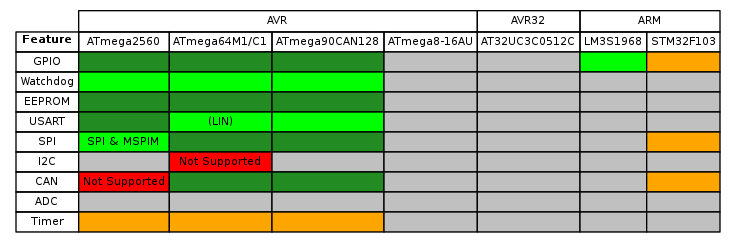
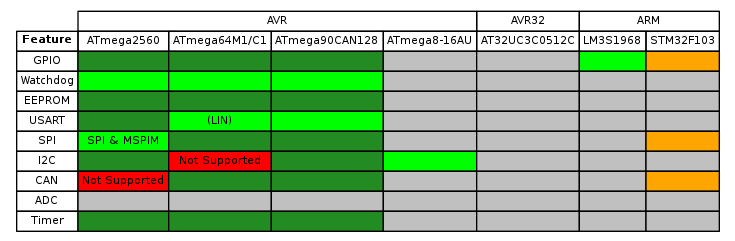
Zim documentation for Timer/Counter updated, and documentation for I2C updated
Former-commit-id: 0889df098970f4cbc46fde832a8b2fbd8e2199df [formerly 275636a69956b4c7375303f9f7cbf9e85ff44f60] [formerly 6b24c741fa04366bb4fef8391502f135d28f1655 [formerly f9d620574cc24b522d1b99270419e773e5d05f99]]
Former-commit-id: 6f29631aa81b05abd2eb8e6ab7d27487f033a969 [formerly d8493dcb835f46c66c7da5e3bb82830fe86dcd26]
Former-commit-id: 24ed3466b5a4971179a510bfa692396f4ae9bbad

Changed region(s): [[0.0, 0.029, 0.9878, 0.9876]]

diff --git a/res/common/hal/i2c.hpp b/res/common/hal/i2c.hpp
@@ -70,11 +70,14 @@
 // FORWARD DEFINE PRIVATE PROTOTYPES.
 
 #ifdef __AVR_ATmega2560__
-#define TWI_BUFFER_SIZE 20
+# define TWI_BUFFER_SIZE 20
+# define I2C_SR   _SFR_MEM8(0xB9)
 #elif defined (__AVR_AT90CAN128__)
-#define TWI_BUFFER_SIZE 20
+# define TWI_BUFFER_SIZE 20
+# define I2C_SR   _SFR_MEM8(0xB9)
 #elif defined (__AVR_ATmega8__)
-#define TWI_BUFFER_SIZE 20
+# define TWI_BUFFER_SIZE 20
+# define I2C_SR   _SFR_IO8(0x01)
 #endif
 
 class I2C_imp;
@@ -155,25 +158,6 @@ enum I2C_status_code
 	ST_DATA_ACK_LAST_BYTE 			= 0xC8, 	//  Last data byte in TWDR has been transmitted (TWEA = “0”); ACK has been received
 
 };
-
-struct TWI_bus
-{
-  volatile uint8_t TWI_MT_buf[TWI_BUFFER_SIZE];       // TWI master transmitter data buffer.
-  volatile uint8_t TWI_MR_sla_adr;                     // TWI master receiver requires a variable to hold target address.
-  volatile uint8_t* TWI_MR_data_ptr;                   // TWI master receiver saves the data straight to the user data array.
-  volatile uint8_t TWI_ST_buf[TWI_BUFFER_SIZE];        // TWI slave transmitter buffer.
-  volatile uint8_t TWI_SR_buf[TWI_BUFFER_SIZE];        // TWI slave receiver buffer.
-
-  volatile bool TWI_gen_call;
-  volatile bool TWI_data_in_ST_buf;
-  volatile bool TWI_data_in_SR_buf;
-
-  uint8_t own_adr;
-  I2C_mode TWI_current_mode;
-  volatile uint8_t TWI_msg_size;
-  volatile uint8_t TWI_status_reg;
-};
-
 
 /**
  * @class

diff --git a/res/avr/hal/i2c.cpp b/res/avr/hal/i2c.cpp
@@ -46,6 +46,24 @@
 
 // DEFINE PRIVATE TYPES AND STRUCTS.
 
+struct TWI_bus
+{
+  volatile uint8_t TWI_MT_buf[TWI_BUFFER_SIZE];       // TWI master transmitter data buffer.
+  volatile uint8_t TWI_MR_sla_adr;                     // TWI master receiver requires a variable to hold target address.
+  volatile uint8_t* TWI_MR_data_ptr;                   // TWI master receiver saves the data straight to the user data array.
+  volatile uint8_t TWI_ST_buf[TWI_BUFFER_SIZE];        // TWI slave transmitter buffer.
+  volatile uint8_t TWI_SR_buf[TWI_BUFFER_SIZE];        // TWI slave receiver buffer.
+
+  volatile bool TWI_gen_call;
+  volatile bool TWI_data_in_ST_buf;
+  volatile bool TWI_data_in_SR_buf;
+
+  uint8_t own_adr;
+  I2C_mode TWI_current_mode;
+  volatile uint8_t TWI_msg_size;
+  volatile uint8_t TWI_status_reg;
+};
+
 // DECLARE IMPORTED GLOBAL VARIABLES.
 
 // DEFINE PRIVATE CLASSES.
